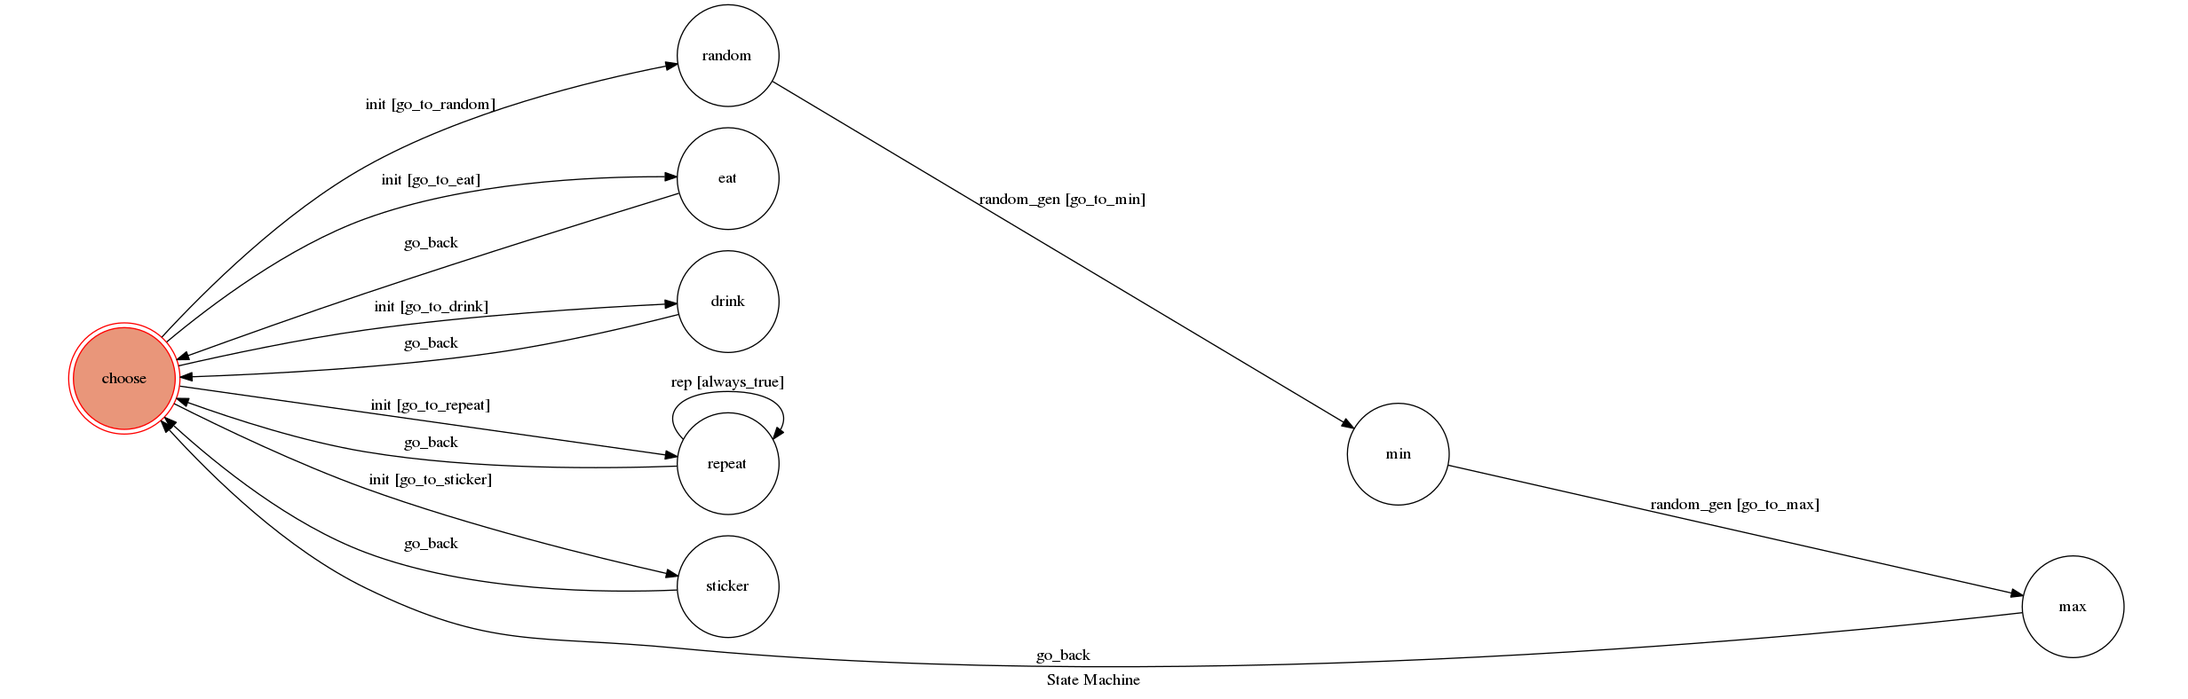
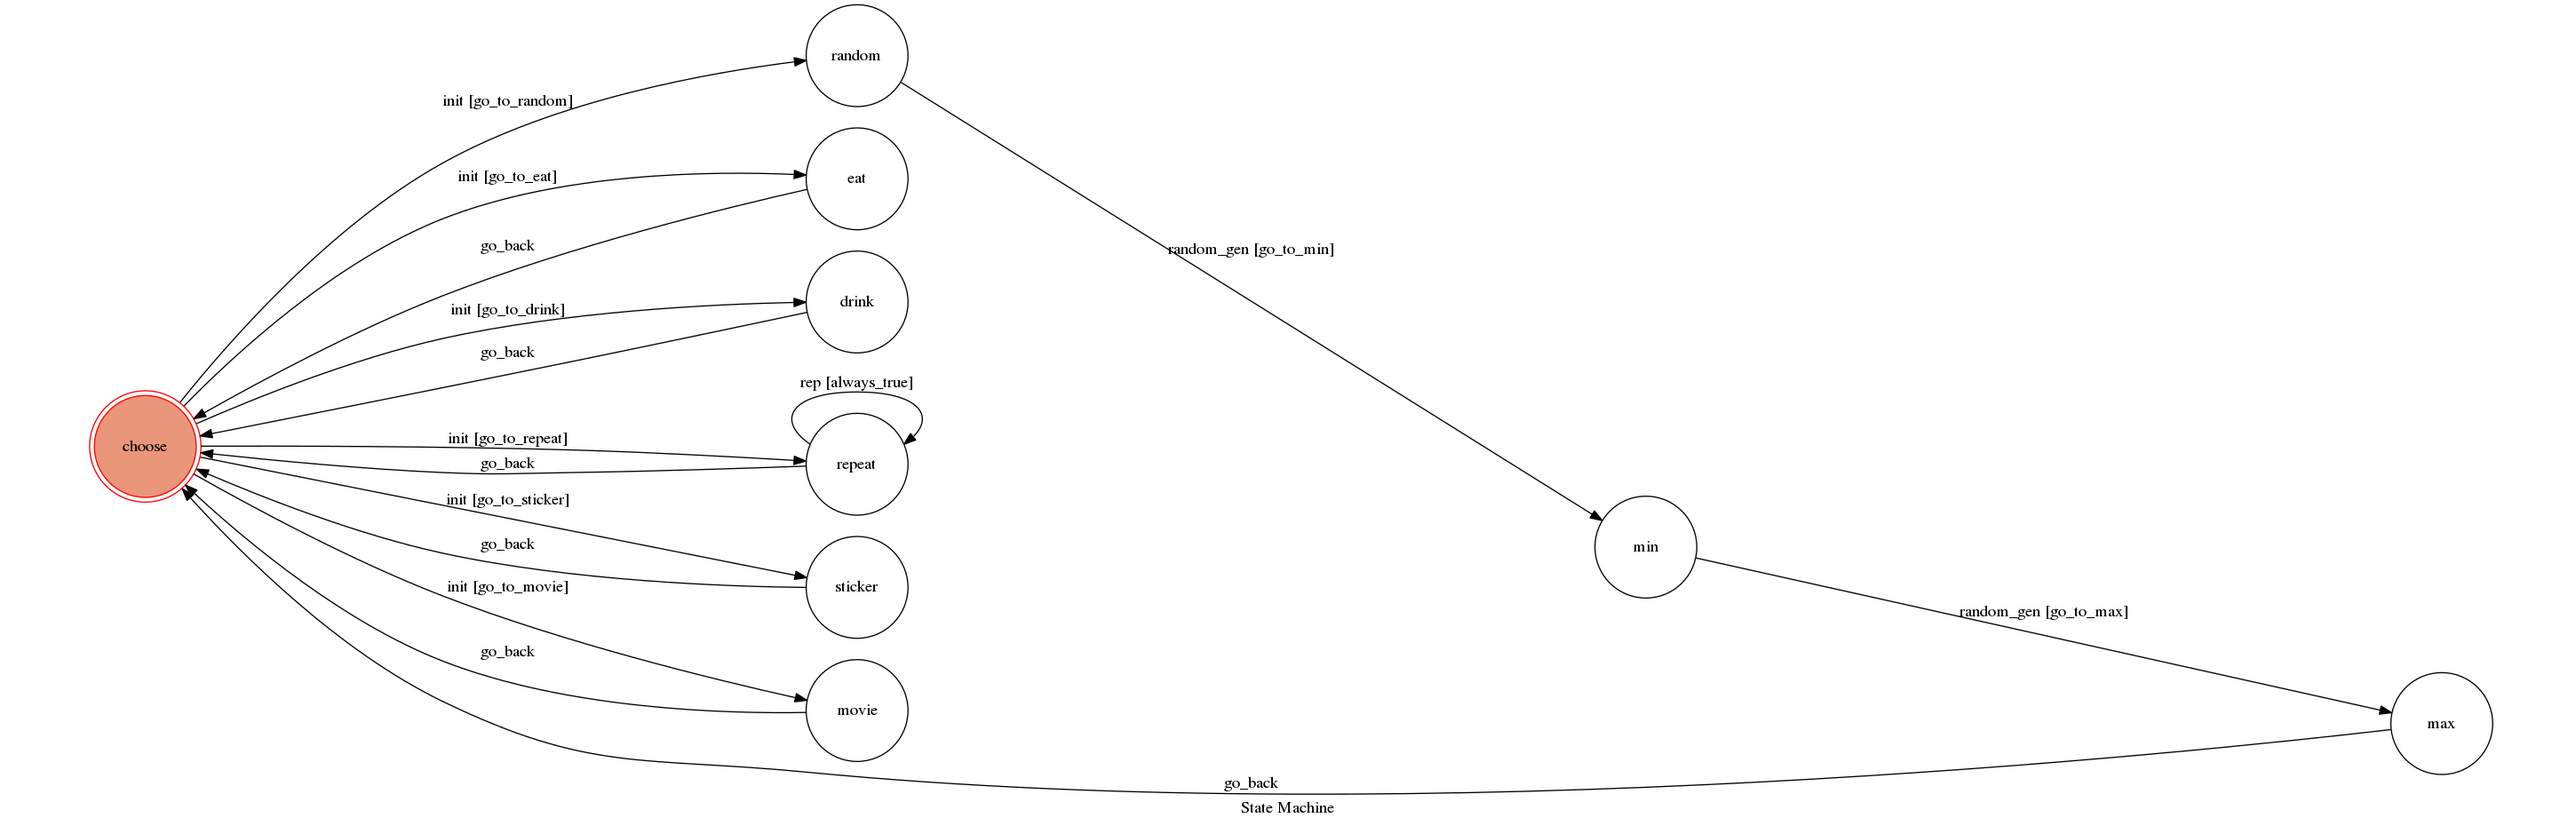
Add web crawler

diff --git a/fsm.py b/fsm.py
@@ -4,6 +4,25 @@ from utils import send_text_message
 import random
 import global_var
 
+
+from bs4 import BeautifulSoup
+import requests
+
+def movie():
+	target_url='https://movies.yahoo.com.tw/'
+	rs=requests.session()
+	res=rs.get(target_url, verify=False)
+	res.enconding='utf-8'
+	soup=BeautifulSoup(res.text, 'html.parser')
+	context=""
+	for index, data in enumerate(soup.select('div.movielist_info h2 a')):
+		if index==10:
+			return context
+		title=data.text
+		link=data['href']
+		context+='{}\n{}\n'.format(title,link)
+	return context
+
 class TocMachine(GraphMachine):
     def __init__(self, **machine_configs):
         self.machine = GraphMachine(
@@ -39,6 +58,12 @@ class TocMachine(GraphMachine):
         if event.get("message") and event['message'].get("sticker_id"):
             text = event['message']['sticker_id']
             return text == 369239263222822
+        return False
+
+    def go_to_movie(self, event):
+        if event.get("message") and event['message'].get("text"):
+            text = event['message']['text']
+            return text.lower() == 'movie'
         return False
 
     def always_true(self, event):
@@ -93,6 +118,14 @@ class TocMachine(GraphMachine):
 
         sender_id = event['sender']['id']
         responese = send_text_message(sender_id, "thanks for you like")
+        self.go_back()
+
+    def on_enter_movie(self, event):
+        print("I'm entering movie")
+
+        sender_id = event['sender']['id']
+        context=movie()
+        responese = send_text_message(sender_id, context)
         self.go_back()
 
     def go_to_min(self, event):

diff --git a/app.py b/app.py
@@ -18,7 +18,8 @@ machine = TocMachine(
 	'eat',
 	'drink',
 	'repeat',
-	'sticker'
+	'sticker',
+	'movie'
     ],
     transitions=[
         {
@@ -52,6 +53,12 @@ machine = TocMachine(
             'conditions': 'go_to_sticker'
         },
         {
+            'trigger': 'init',
+            'source': 'choose',
+            'dest': 'movie',
+            'conditions': 'go_to_movie'
+        },
+        {
             'trigger': 'rep',
             'source': 'repeat',
             'dest': 'repeat',
@@ -76,7 +83,8 @@ machine = TocMachine(
 		'eat',
 		'drink',
 		'repeat',
-		'sticker'
+		'sticker',
+		'movie'
             ],
             'dest': 'choose'
         }
@@ -85,6 +93,7 @@ machine = TocMachine(
     auto_transitions=False,
     show_conditions=True,
 )
+
 
 
 @route("/webhook", method="GET")
